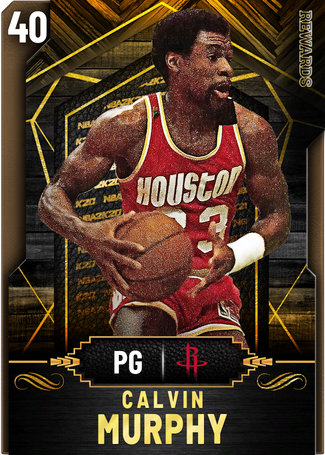
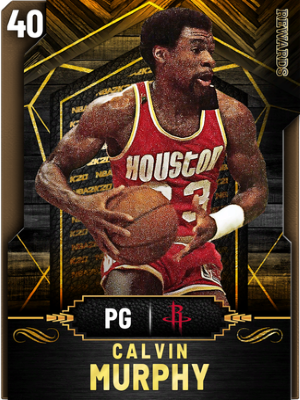
各球隊球員卡均完成

diff --git a/Nuggets.html b/Nuggets.html
@@ -114,6 +114,12 @@
         <meta charset="utf-8">
         <title>Nuggets</title>
         <link rel="preload" href="https://allen3325.github.io/WebClassProject/assets/Nuggets.jpg" as="image">
+        <link rel="preload" href="https://allen3325.github.io/WebClassProject/player/DikembeMutombo.png" as="image">
+        <link rel="preload" href="https://allen3325.github.io/WebClassProject/player/DanIssel.png" as="image">
+        <link rel="preload" href="https://allen3325.github.io/WebClassProject/player/ByronBeck.png" as="image">
+        <link rel="preload" href="https://allen3325.github.io/WebClassProject/player/DavidThompson.png" as="image">
+        <link rel="preload" href="https://allen3325.github.io/WebClassProject/player/FatLever.png" as="image">
+        <link rel="preload" href="https://allen3325.github.io/WebClassProject/player/AlexEnglish.png" as="image">
     </head>
     <body>
         <button class="btn">秀出有哪些球員</button>
@@ -121,6 +127,12 @@
         <!--每隔6張圖片換行-->
         <div class="initial img1"><ul>
             <!--<input type="image" src="https://allen3325.github.io/WebClassProject/player/Barkley.png" height="400px" width="300px" name="Barkley" id="Barkley"/>-->
+            <input type="image" src="https://allen3325.github.io/WebClassProject/player/DikembeMutombo.png" height="400px" width="300px" name="DikembeMutombo" id="DikembeMutombo"/>
+            <input type="image" src="https://allen3325.github.io/WebClassProject/player/DanIssel.png" height="400px" width="300px" name="DanIssel" id="DanIssel"/>
+            <input type="image" src="https://allen3325.github.io/WebClassProject/player/ByronBeck.png" height="400px" width="300px" name="ByronBeck" id="ByronBeck"/>
+            <input type="image" src="https://allen3325.github.io/WebClassProject/player/DavidThompson.png" height="400px" width="300px" name="DavidThompson" id="DavidThompson"/>
+            <input type="image" src="https://allen3325.github.io/WebClassProject/player/FatLever.png" height="400px" width="300px" name="FatLever" id="FatLever"/>
+            <input type="image" src="https://allen3325.github.io/WebClassProject/player/AlexEnglish.png" height="400px" width="300px" name="AlexEnglish" id="AlexEnglish"/>
             
         </ul></div>
         <div class="Text" id="result"></div>

diff --git a/Knicks.html b/Knicks.html
@@ -114,6 +114,11 @@
         <meta charset="utf-8">
         <title>Knicks</title>
         <link rel="preload" href="https://allen3325.github.io/WebClassProject/assets/Knicks.jpg" as="image">
+        <link rel="preload" href="https://allen3325.github.io/WebClassProject/player/PatrickEwing.png" as="image">
+        <link rel="preload" href="https://allen3325.github.io/WebClassProject/player/DaveDeBusschere.png" as="image">
+        <link rel="preload" href="https://allen3325.github.io/WebClassProject/player/WillisReed.png" as="image">
+        <link rel="preload" href="https://allen3325.github.io/WebClassProject/player/DickBarnett.png" as="image">
+        <link rel="preload" href="https://allen3325.github.io/WebClassProject/player/WalterFrazier.png" as="image">
     </head>
     <body>
         <button class="btn">秀出有哪些球員</button>
@@ -121,7 +126,11 @@
         <!--每隔6張圖片換行-->
         <div class="initial img1"><ul>
             <!--<input type="image" src="https://allen3325.github.io/WebClassProject/player/Barkley.png" height="400px" width="300px" name="Barkley" id="Barkley"/>-->
-            
+            <input type="image" src="https://allen3325.github.io/WebClassProject/player/PatrickEwing.png" height="400px" width="300px" name="PatrickEwing" id="PatrickEwing"/>
+            <input type="image" src="https://allen3325.github.io/WebClassProject/player/DaveDeBusschere.png" height="400px" width="300px" name="DaveDeBusschere" id="DaveDeBusschere"/>
+            <input type="image" src="https://allen3325.github.io/WebClassProject/player/WillisReed.png" height="400px" width="300px" name="WillisReed" id="WillisReed"/>
+            <input type="image" src="https://allen3325.github.io/WebClassProject/player/DickBarnett.png" height="400px" width="300px" name="DickBarnett" id="DickBarnett"/>
+            <input type="image" src="https://allen3325.github.io/WebClassProject/player/WalterFrazier.png" height="400px" width="300px" name="WalterFrazier" id="WalterFrazier"/>
         </ul></div>
         <div class="Text" id="result"></div>
     </body>

diff --git a/76ers.html b/76ers.html
@@ -115,6 +115,11 @@
         <title>76ers</title>
         <div id='preload'>
             <link rel="preload" href="https://allen3325.github.io/WebClassProject/assets/76ers.jpg" as="image">
+            <link rel="preload" href="https://allen3325.github.io/WebClassProject/player/AllenIverson.png" as="image">
+            <link rel="preload" href="https://allen3325.github.io/WebClassProject/player/JuliusErving.png" as="image">
+            <link rel="preload" href="https://allen3325.github.io/WebClassProject/player/MauriceCheeks.png" as="image">
+            <link rel="preload" href="https://allen3325.github.io/WebClassProject/player/HalGreer.png" as="image">
+            <link rel="preload" href="https://allen3325.github.io/WebClassProject/player/BillyCunningham.png" as="image">
         </div>
     </head>
     <body>
@@ -123,6 +128,11 @@
         <!--每隔6張圖片換行-->
         <div class="initial img1"><ul>
             <!--<input type="image" src="https://allen3325.github.io/WebClassProject/player/Barkley.png" height="400px" width="300px" name="Barkley" id="Barkley" />-->
+            <input type="image" src="https://allen3325.github.io/WebClassProject/player/AllenIverson.png" height="400px" width="300px" name="AllenIverson" id="AllenIverson" />
+            <input type="image" src="https://allen3325.github.io/WebClassProject/player/JuliusErving.png" height="400px" width="300px" name="JuliusErving" id="JuliusErving" />
+            <input type="image" src="https://allen3325.github.io/WebClassProject/player/MauriceCheeks.png" height="400px" width="300px" name="MauriceCheeks" id="MauriceCheeks" />
+            <input type="image" src="https://allen3325.github.io/WebClassProject/player/HalGreer.png" height="400px" width="300px" name="HalGreer" id="HalGreer" />
+            <input type="image" src="https://allen3325.github.io/WebClassProject/player/BillyCunningham.png" height="400px" width="300px" name="BillyCunningham" id="BillyCunningham" />
             
         </ul></div>
         <div class="Text" id="result"></div>

diff --git a/Bulls.html b/Bulls.html
@@ -114,6 +114,10 @@
         <meta charset="utf-8">
         <title>Bulls</title>
         <link rel="preload" href="https://allen3325.github.io/WebClassProject/assets/Bulls.jpg" as="image">
+        <link rel="preload" href="https://allen3325.github.io/WebClassProject/player/MichaelJordan.png" as="image">
+        <link rel="preload" href="https://allen3325.github.io/WebClassProject/player/ScottiePippen.png" as="image">
+        <link rel="preload" href="https://allen3325.github.io/WebClassProject/player/DennisRodman.png" as="image">
+        <link rel="preload" href="https://allen3325.github.io/WebClassProject/player/JerrySloan.png" as="image">
     </head>
     <body>
         <button class="btn">秀出有哪些球員</button>
@@ -121,7 +125,10 @@
         <!--每隔6張圖片換行-->
         <div class="initial img1"><ul>
             <!--<input type="image" src="https://allen3325.github.io/WebClassProject/player/Barkley.png" height="400px" width="300px" name="Barkley" id="Barkley" />-->
-            
+            <input type="image" src="https://allen3325.github.io/WebClassProject/player/MichaelJordan.png" height="400px" width="300px" name="MichaelJordan" id="MichaelJordan" />
+            <input type="image" src="https://allen3325.github.io/WebClassProject/player/ScottiePippen.png" height="400px" width="300px" name="ScottiePippen" id="ScottiePippen" />
+            <input type="image" src="https://allen3325.github.io/WebClassProject/player/DennisRodman.png" height="400px" width="300px" name="DennisRodman" id="DennisRodman" />
+            <input type="image" src="https://allen3325.github.io/WebClassProject/player/JerrySloan.png" height="400px" width="300px" name="JerrySloan" id="JerrySloan" />
         </ul></div>
         <div class="Text" id="result"></div>
     </body>

diff --git a/Rocket.html b/Rocket.html
@@ -114,6 +114,10 @@
         <meta charset="utf-8">
         <title>Rocket</title>
         <link rel="preload" href="https://allen3325.github.io/WebClassProject/assets/Rocket.jpg" as="image">
+        <link rel="preload" href="https://allen3325.github.io/WebClassProject/player/HakeemOlajuwon.png" as="image">
+        <link rel="preload" href="https://allen3325.github.io/WebClassProject/player/YaoMing.jpg" as="image">
+        <link rel="preload" href="https://allen3325.github.io/WebClassProject/player/CalvinMurphy.jpg" as="image">
+        <link rel="preload" href="https://allen3325.github.io/WebClassProject/player/RudyTomjanovich.jpg" as="image">
     </head>
     <body>
         <button class="btn">秀出有哪些球員</button>
@@ -121,7 +125,10 @@
         <!--每隔6張圖片換行-->
         <div class="initial img1"><ul>
             <!--<input type="image" src="https://allen3325.github.io/WebClassProject/player/Barkley.png" height="400px" width="300px" name="Barkley" id="Barkley"/>-->
-            
+            <input type="image" src="https://allen3325.github.io/WebClassProject/player/HakeemOlajuwon.png" height="400px" width="300px" name="HakeemOlajuwon" id="HakeemOlajuwon"/>
+            <input type="image" src="https://allen3325.github.io/WebClassProject/player/YaoMing.png" height="400px" width="300px" name="YaoMing" id="YaoMing"/>
+            <input type="image" src="https://allen3325.github.io/WebClassProject/player/CalvinMurphy.png" height="400px" width="300px" name="CalvinMurphy" id="CalvinMurphy"/>
+            <input type="image" src="https://allen3325.github.io/WebClassProject/player/RudyTomjanovich.png" height="400px" width="300px" name="RudyTomjanovich" id="RudyTomjanovich"/>
         </ul></div>
         <div class="Text" id="result"></div>
     </body>

diff --git a/Spurs.html b/Spurs.html
@@ -114,6 +114,9 @@
         <meta charset="utf-8">
         <title>Spurs</title>
         <link rel="preload" href="https://allen3325.github.io/WebClassProject/assets/Spurs.jpg" as="image">
+        <link rel="preload" href="https://allen3325.github.io/WebClassProject/player/TimDuncan.png" as="image">
+        <link rel="preload" href="https://allen3325.github.io/WebClassProject/player/DavidRobinson.png" as="image">
+        <link rel="preload" href="https://allen3325.github.io/WebClassProject/player/GeorgeGervin.png" as="image">
     </head>
     <body>
         <button class="btn">秀出有哪些球員</button>
@@ -121,7 +124,9 @@
         <!--每隔6張圖片換行-->
         <div class="initial img1"><ul>
             <!--<input type="image" src="https://allen3325.github.io/WebClassProject/player/Barkley.png" height="400px" width="300px" name="Barkley" id="Barkley" />-->
-            
+            <input type="image" src="https://allen3325.github.io/WebClassProject/player/TimDuncan.png" height="400px" width="300px" name="TimDuncan" id="TimDuncan" />
+            <input type="image" src="https://allen3325.github.io/WebClassProject/player/DavidRobinson.png" height="400px" width="300px" name="DavidRobinson" id="DavidRobinson" />
+            <input type="image" src="https://allen3325.github.io/WebClassProject/player/GeorgeGervin.png" height="400px" width="300px" name="GeorgeGervin" id="GeorgeGervin" />
         </ul></div>
         <div class="Text" id="result"></div>
     </body>

diff --git a/Heat.html b/Heat.html
@@ -114,6 +114,9 @@
         <meta charset="utf-8">
         <title>Heat</title>
         <link rel="preload" href="https://allen3325.github.io/WebClassProject/assets/Heat.jpg" as="image">
+        <link rel="preload" href="https://allen3325.github.io/WebClassProject/player/DwyaneWade.png" as="image">
+        <link rel="preload" href="https://allen3325.github.io/WebClassProject/player/ChrisBosh.png" as="image">
+        <link rel="preload" href="https://allen3325.github.io/WebClassProject/player/AlonzoMourning.png" as="image">
     </head>
     <body>
         <button class="btn">秀出有哪些球員</button>
@@ -121,7 +124,9 @@
         <!--每隔6張圖片換行-->
         <div class="initial img1"><ul>
             <!--<input type="image" src="https://allen3325.github.io/WebClassProject/player/Barkley.png" height="400px" width="300px" name="Barkley" id="Barkley" />-->
-            
+            <input type="image" src="https://allen3325.github.io/WebClassProject/player/DwyaneWade.png" height="400px" width="300px" name="DwyaneWade" id="DwyaneWade" />
+            <input type="image" src="https://allen3325.github.io/WebClassProject/player/ChrisBosh.png" height="400px" width="300px" name="ChrisBosh" id="ChrisBosh" />
+            <input type="image" src="https://allen3325.github.io/WebClassProject/player/AlonzoMourning.png" height="400px" width="300px" name="AlonzoMourning" id="AlonzoMourning" />
         </ul></div>
         <div class="Text" id="result"></div>
     </body>

diff --git a/Bucks.html b/Bucks.html
@@ -114,6 +114,8 @@
         <meta charset="utf-8">
         <title>Bucks</title>
         <link rel="preload" href="https://allen3325.github.io/WebClassProject/assets/Bucks.jpg" as="image">
+        <link rel="preload" href="https://allen3325.github.io/WebClassProject/player/MarquesJohnson.png" as="image">
+        <link rel="preload" href="https://allen3325.github.io/WebClassProject/player/SidneyMoncrief.png" as="image">
     </head>
     <body>
         <button class="btn">秀出有哪些球員</button>
@@ -121,6 +123,8 @@
         <!--每隔6張圖片換行-->
         <div class="initial img1"><ul>
             <!--<input type="image" src="https://allen3325.github.io/WebClassProject/player/Barkley.png" height="400px" width="300px" name="Barkley" id="Barkley"/>-->
+            <input type="image" src="https://allen3325.github.io/WebClassProject/player/MarquesJohnson.png" height="400px" width="300px" name="MarquesJohnson" id="MarquesJohnson"/>
+            <input type="image" src="https://allen3325.github.io/WebClassProject/player/SidneyMoncrief.png" height="400px" width="300px" name="SidneyMoncrief" id="SidneyMoncrief"/>
             
         </ul></div>
         <div class="Text" id="result"></div>

diff --git a/Nets.html b/Nets.html
@@ -114,6 +114,8 @@
         <meta charset="utf-8">
         <title>Nets</title>
         <link rel="preload" href="https://allen3325.github.io/WebClassProject/assets/Nets.jpg" as="image">
+        <link rel="preload" href="https://allen3325.github.io/WebClassProject/player/JasonKidd.png" as="image">
+        <link rel="preload" href="https://allen3325.github.io/WebClassProject/player/DraženPetrović.png" as="image">
     </head>
     <body>
         <button class="btn">秀出有哪些球員</button>
@@ -121,6 +123,8 @@
         <!--每隔6張圖片換行-->
         <div class="initial img1"><ul>
             <!--<input type="image" src="https://allen3325.github.io/WebClassProject/player/Barkley.png" height="400px" width="300px" name="Barkley" id="Barkley" >-->
+            <input type="image" src="https://allen3325.github.io/WebClassProject/player/JasonKidd.png" height="400px" width="300px" name="JasonKidd" id="JasonKidd" >
+            <input type="image" src="https://allen3325.github.io/WebClassProject/player/DraženPetrović.png" height="400px" width="300px" name="DraženPetrović" id="DraženPetrović" >
             
         </ul></div>
         <div class="Text" id="result"></div>

diff --git a/Hawk.html b/Hawk.html
@@ -124,10 +124,7 @@
         <div class="initial img1"><ul>
             <!--<input type="image" src="https://allen3325.github.io/WebClassProject/player/Barkley.png" height="400px" width="300px" name="Barkley" id="Barkley" />-->
             <input type="image" src="https://allen3325.github.io/WebClassProject/player/BobPettit.png" height="400px" width="300px" name="BobPettit" id="BobPettit" />
-            
             <input type="image" src="https://allen3325.github.io/WebClassProject/player/LennyWilkens.png" height="400px" width="300px" name="LennyWilkens" id="LennyWilkens" />
-
-
         </ul></div>
         <div class="Text" id="result"></div>
     </body>
